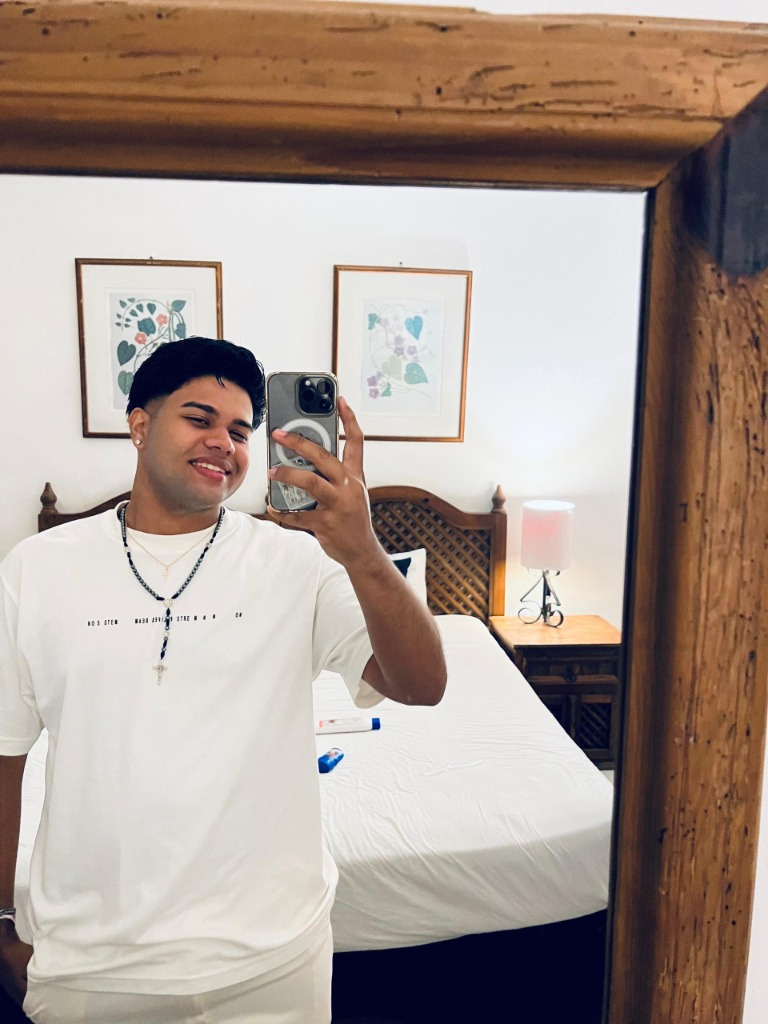
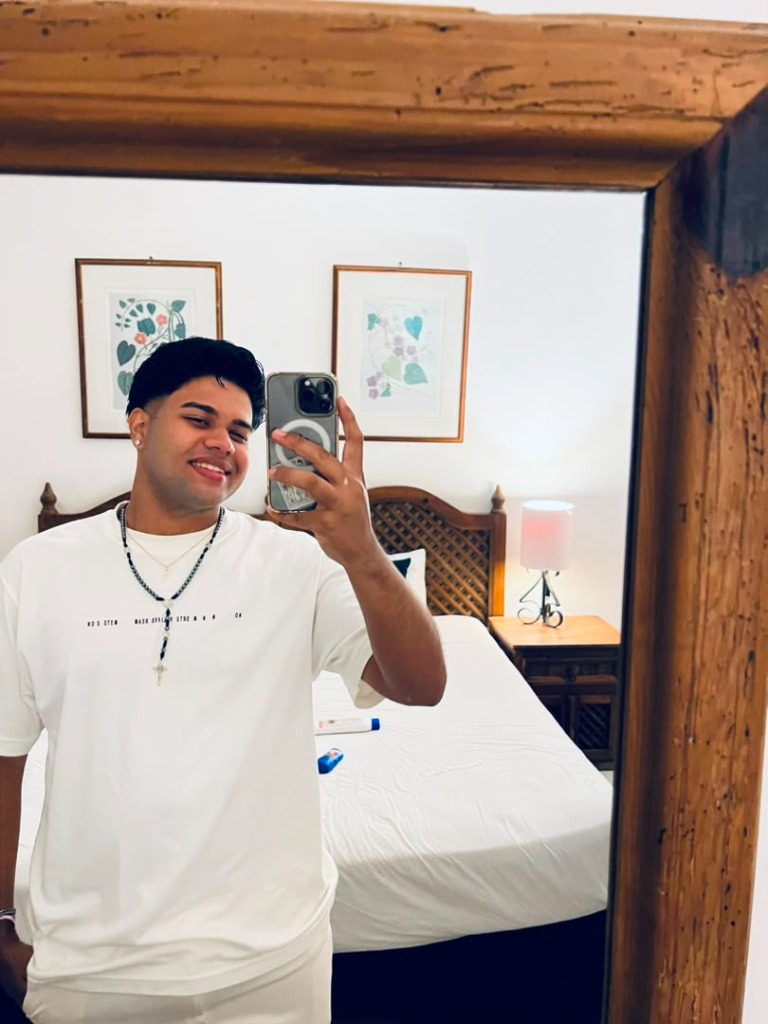
Feat: correciones del nuevo módulo

diff --git a/src/pages/Administracion.jsx b/src/pages/Administracion.jsx
@@ -55,6 +55,7 @@ export default function Administracion() {
   useEffect(() => {
     async function getUserData() {
       const { data: { user } } = await supabase.auth.getUser();
+      console.log('User object:', user);
       if (user) {
         let name = user.user_metadata?.full_name || user.user_metadata?.name;
         const email = user.email ? user.email.toLowerCase() : '';
@@ -63,6 +64,21 @@ export default function Administracion() {
           name = 'Dorcary Gonzalez';
         } else if (email.includes('alejandro') || email.includes('viana')) {
           name = 'Alejandro Viana';
+        }
+        
+        let avatarUrl = 
+          user.user_metadata?.avatar_url || 
+          user.user_metadata?.picture || 
+          user.identities?.[0]?.identity_data?.avatar_url ||
+          user.identities?.[0]?.identity_data?.picture ||
+          null;
+        
+        if (!avatarUrl) {
+          if (email.includes('dorcary') || email.includes('gonzalez')) {
+            avatarUrl = '/admin-dorcary.jpg';
+          } else if (email.includes('alejandro') || email.includes('viana')) {
+            avatarUrl = '/admin-alejandro.jpg';
+          }
         }
         
         if (!name) {
@@ -77,7 +93,7 @@ export default function Administracion() {
           .slice(0, 2)
           .toUpperCase();
           
-        setAdminUser({ name, initials });
+        setAdminUser({ name, initials, avatarUrl });
       }
     }
     getUserData();
@@ -646,8 +662,12 @@ export default function Administracion() {
         <div className="mt-auto px-4 pt-6 pb-6 border-t border-outline-variant">
           <div className="flex items-center justify-between">
             <div className="flex items-center gap-2">
-              <div className="w-10 h-10 rounded-full bg-primary-container flex items-center justify-center text-on-primary-container font-bold">
-                {adminUser.initials}
+              <div className="w-10 h-10 rounded-full bg-primary-container flex items-center justify-center text-on-primary-container font-bold overflow-hidden">
+                {adminUser.avatarUrl ? (
+                  <img src={adminUser.avatarUrl} alt={adminUser.name} className="w-full h-full object-cover" />
+                ) : (
+                  adminUser.initials
+                )}
               </div>
               <div>
                 <p className="text-sm font-medium text-on-surface">{adminUser.name}</p>
@@ -689,8 +709,12 @@ export default function Administracion() {
                 onChange={(e) => setSearchQuery(e.target.value)}
               />
             </div>
-            <div className="w-8 h-8 rounded-full bg-surface-container-highest flex items-center justify-center cursor-pointer hover:scale-105 transition-transform">
-              <span className="material-symbols-outlined text-primary text-xl">account_circle</span>
+            <div className="w-8 h-8 rounded-full bg-surface-container-highest flex items-center justify-center cursor-pointer hover:scale-105 transition-transform overflow-hidden">
+              {adminUser.avatarUrl ? (
+                <img src={adminUser.avatarUrl} alt={adminUser.name} className="w-full h-full object-cover" />
+              ) : (
+                <span className="material-symbols-outlined text-primary text-xl">account_circle</span>
+              )}
             </div>
           </div>
         </header>
@@ -804,13 +828,72 @@ export default function Administracion() {
                   <h3 className="font-semibold text-xl md:text-2xl text-on-surface">Inventario de Sabores</h3>
                   <p className="text-on-surface-variant text-sm font-medium">Gestión de stock en tiempo real</p>
                 </div>
-                <button
-                  className="bg-primary text-on-primary px-4 md:px-6 py-2 rounded-lg text-sm font-medium flex items-center gap-2 active:scale-95 transition-all shadow-lg hover:brightness-110"
-                  onClick={() => setAddFlavorModalOpen(true)}
-                >
-                  <span className="material-symbols-outlined">add</span>
-                  <span className="hidden md:inline">Añadir Sabor</span>
-                </button>
+                <div className="flex gap-2">
+                  <button
+                    className="bg-surface-container-highest border border-outline-variant text-on-surface hover:bg-primary/10 hover:text-primary hover:border-primary/30 px-3 md:px-4 py-2 rounded-lg text-sm font-medium flex items-center gap-2 active:scale-95 transition-all shadow"
+                    onClick={() => {
+                      const getSaborEmoji = (sabor) => {
+                        const s = sabor.toLowerCase();
+                        if (s.includes('fresa')) return '🍓';
+                        if (s.includes('melocotón') || s.includes('melocoton') || s.includes('durazno')) return '🍑';
+                        if (s.includes('parchita') || s.includes('maracuyá') || s.includes('maracuya')) return '🟡';
+                        if (s.includes('piña') || s.includes('pina')) return '🍍';
+                        if (s.includes('mora') || s.includes('arándano')) return '🫐';
+                        if (s.includes('coco')) return '🥥';
+                        if (s.includes('mango')) return '🥭';
+                        return '🍦';
+                      };
+
+                      let texto = `🥣 *Disponibilidad THÖRGURT* 🥣\n- - - - - - - - - - - - -\n\n`;
+                      const productosAgrupados = getInventarioAgrupado();
+                      let hayDisponibles = false;
+
+                      productosAgrupados.forEach(grupo => {
+                        const variantesDisponibles = grupo.variantes.filter(item => getStockTotal(item.id) > 0);
+                        
+                        if (variantesDisponibles.length > 0) {
+                          hayDisponibles = true;
+                          const emoji = getSaborEmoji(grupo.sabor);
+                          texto += `${emoji} *${grupo.sabor}*\n`;
+                          variantesDisponibles.forEach(v => {
+                            texto += `    • ${v.presentacion} → $${Number(v.precio).toFixed(2)}\n`;
+                          });
+                          texto += `\n`;
+                        }
+                      });
+
+                      if (!hayDisponibles) {
+                        texto += `Actualmente no hay productos disponibles.\n\n`;
+                      }
+
+                      texto += `- - - - - - - - - - - - -\n📦 Hacemos delivery\n📲 ¡Escríbenos para hacer tu pedido!\n\n🌐 Registra tu compra aquí:\nhttps://smart-yogu.vercel.app/`;
+
+                      if (navigator.clipboard) {
+                        navigator.clipboard.writeText(texto);
+                        alert('¡Lista de disponibilidad global copiada al portapapeles!');
+                      } else {
+                        const ta = document.createElement('textarea');
+                        ta.value = texto;
+                        document.body.appendChild(ta);
+                        ta.select();
+                        document.execCommand('copy');
+                        document.body.removeChild(ta);
+                        alert('¡Lista de disponibilidad copiada!');
+                      }
+                    }}
+                    title="Copiar lista global de productos disponibles"
+                  >
+                    <span className="material-symbols-outlined text-[18px]">share</span>
+                    <span className="hidden md:inline">Compartir Disponibilidad</span>
+                  </button>
+                  <button
+                    className="bg-primary text-on-primary px-4 md:px-6 py-2 rounded-lg text-sm font-medium flex items-center gap-2 active:scale-95 transition-all shadow-lg hover:brightness-110"
+                    onClick={() => setAddFlavorModalOpen(true)}
+                  >
+                    <span className="material-symbols-outlined">add</span>
+                    <span className="hidden md:inline">Añadir Sabor</span>
+                  </button>
+                </div>
               </div>
 
               {loadingInv ? (
@@ -1141,13 +1224,80 @@ export default function Administracion() {
                   <h3 className="font-semibold text-xl md:text-2xl text-on-surface">Inventario por Sedes</h3>
                   <p className="text-on-surface-variant text-sm font-medium">Stock independiente por punto de venta</p>
                 </div>
-                <button
-                  className="bg-primary text-on-primary px-4 md:px-6 py-2 rounded-lg text-sm font-medium flex items-center gap-2 active:scale-95 transition-all shadow-lg hover:brightness-110"
-                  onClick={() => setAddSedeModalOpen(true)}
-                >
-                  <span className="material-symbols-outlined">add</span>
-                  <span className="hidden md:inline">Nueva Sede</span>
-                </button>
+                <div className="flex gap-2">
+                  {selectedSedeTab && (
+                    <button
+                      className="bg-surface-container-highest border border-outline-variant text-on-surface hover:bg-primary/10 hover:text-primary hover:border-primary/30 px-3 md:px-4 py-2 rounded-lg text-sm font-medium flex items-center gap-2 active:scale-95 transition-all shadow"
+                      onClick={() => {
+                        const sedeActual = sedes.find(s => s.id === selectedSedeTab);
+                        
+                        const getSaborEmoji = (sabor) => {
+                          const s = sabor.toLowerCase();
+                          if (s.includes('fresa')) return '🍓';
+                          if (s.includes('melocotón') || s.includes('melocoton') || s.includes('durazno')) return '🍑';
+                          if (s.includes('parchita') || s.includes('maracuyá') || s.includes('maracuya')) return '🟡';
+                          if (s.includes('piña') || s.includes('pina')) return '🍍';
+                          if (s.includes('mora') || s.includes('arándano')) return '🫐';
+                          if (s.includes('coco')) return '🥥';
+                          if (s.includes('mango')) return '🥭';
+                          return '🍦';
+                        };
+
+                        let texto = `🥣 *Disponibilidad THÖRGURT* 🥣\n📍 *Sede:* ${sedeActual?.nombre || 'General'}\n- - - - - - - - - - - - -\n\n`;
+                        
+                        const productosAgrupados = getInventarioAgrupado();
+                        let hayDisponibles = false;
+                        
+                        productosAgrupados.forEach(grupo => {
+                          const variantesDisponibles = grupo.variantes.filter(item => {
+                            const st = inventarioSedes.find(i => i.sede_id === selectedSedeTab && i.producto_id === item.id)?.stock ?? 0;
+                            return st > 0;
+                          });
+                          
+                          if (variantesDisponibles.length > 0) {
+                            hayDisponibles = true;
+                            const emoji = getSaborEmoji(grupo.sabor);
+                            texto += `${emoji} *${grupo.sabor}*\n`;
+                            variantesDisponibles.forEach(v => {
+                              texto += `    • ${v.presentacion} → $${Number(v.precio).toFixed(2)}\n`;
+                            });
+                            texto += `\n`;
+                          }
+                        });
+                        
+                        if (!hayDisponibles) {
+                          texto += `Actualmente no hay productos disponibles en esta sede.\n\n`;
+                        }
+                        
+                        texto += `- - - - - - - - - - - - -\n📦 Hacemos delivery\n📲 ¡Escríbenos para hacer tu pedido!\n\n🌐 Registra tu compra aquí:\nhttps://smart-yogu.vercel.app/`;
+
+                        if (navigator.clipboard) {
+                          navigator.clipboard.writeText(texto);
+                          alert('¡Lista de disponibilidad copiada al portapapeles! Puedes pegarla en WhatsApp.');
+                        } else {
+                          const ta = document.createElement('textarea');
+                          ta.value = texto;
+                          document.body.appendChild(ta);
+                          ta.select();
+                          document.execCommand('copy');
+                          document.body.removeChild(ta);
+                          alert('¡Lista de disponibilidad copiada al portapapeles!');
+                        }
+                      }}
+                      title="Copiar lista de productos disponibles en esta sede"
+                    >
+                      <span className="material-symbols-outlined text-[18px]">share</span>
+                      <span className="hidden md:inline">Compartir Disponibilidad</span>
+                    </button>
+                  )}
+                  <button
+                    className="bg-primary text-on-primary px-4 md:px-6 py-2 rounded-lg text-sm font-medium flex items-center gap-2 active:scale-95 transition-all shadow-lg hover:brightness-110"
+                    onClick={() => setAddSedeModalOpen(true)}
+                  >
+                    <span className="material-symbols-outlined">add</span>
+                    <span className="hidden md:inline">Nueva Sede</span>
+                  </button>
+                </div>
               </div>
 
               {loadingSedes ? (
